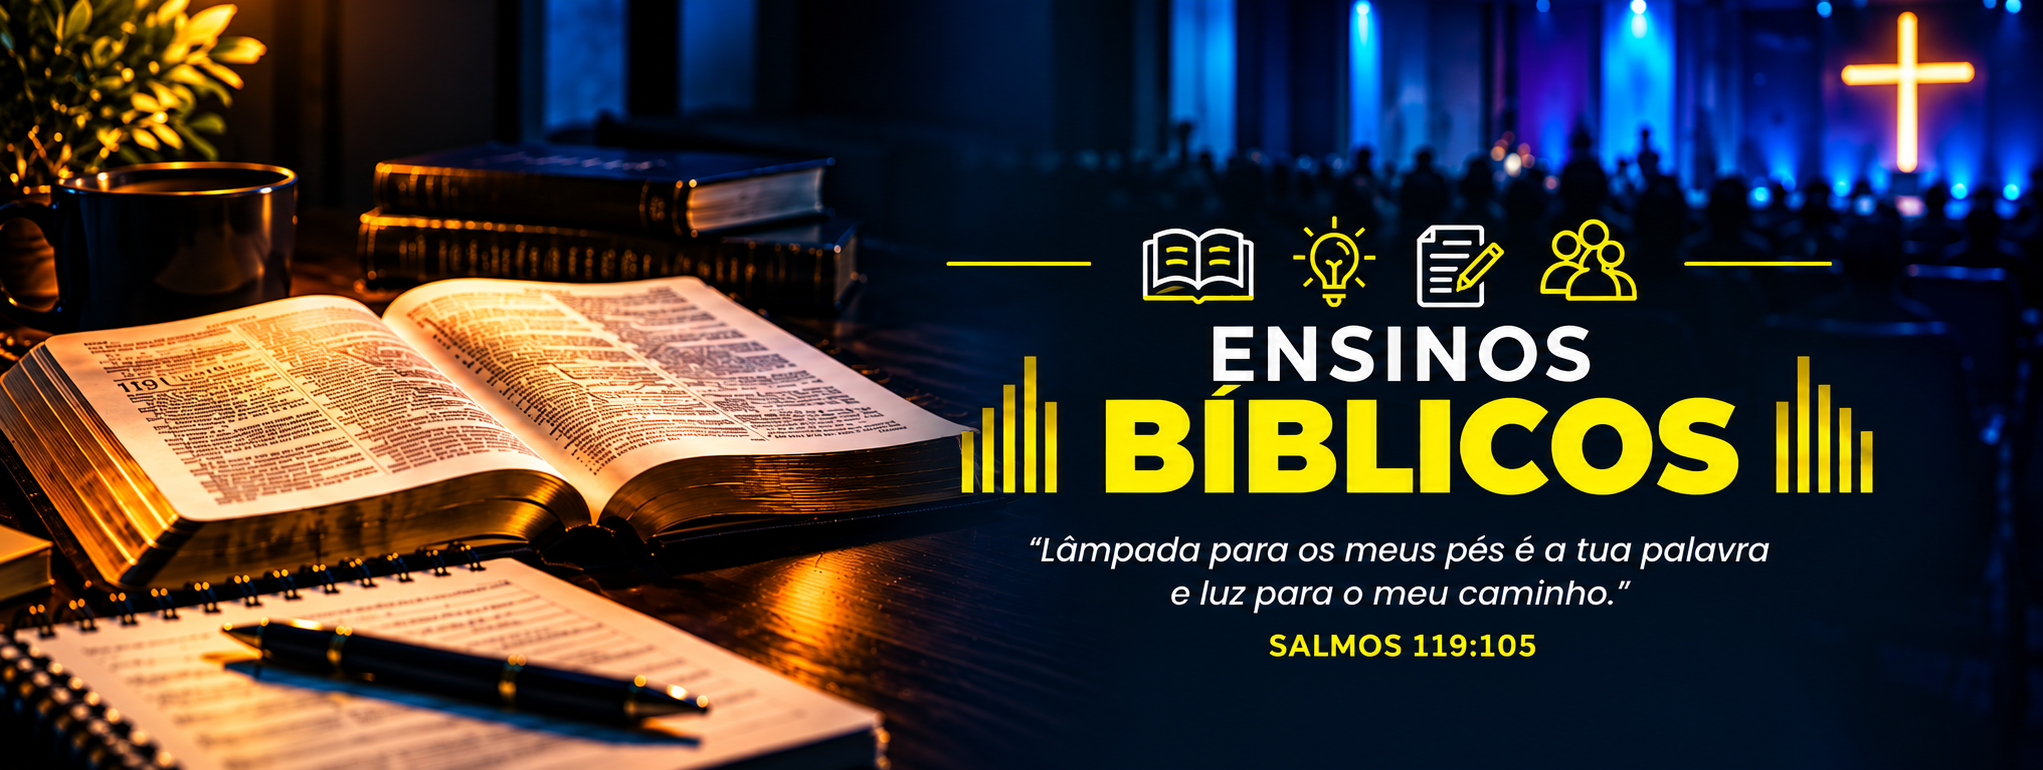
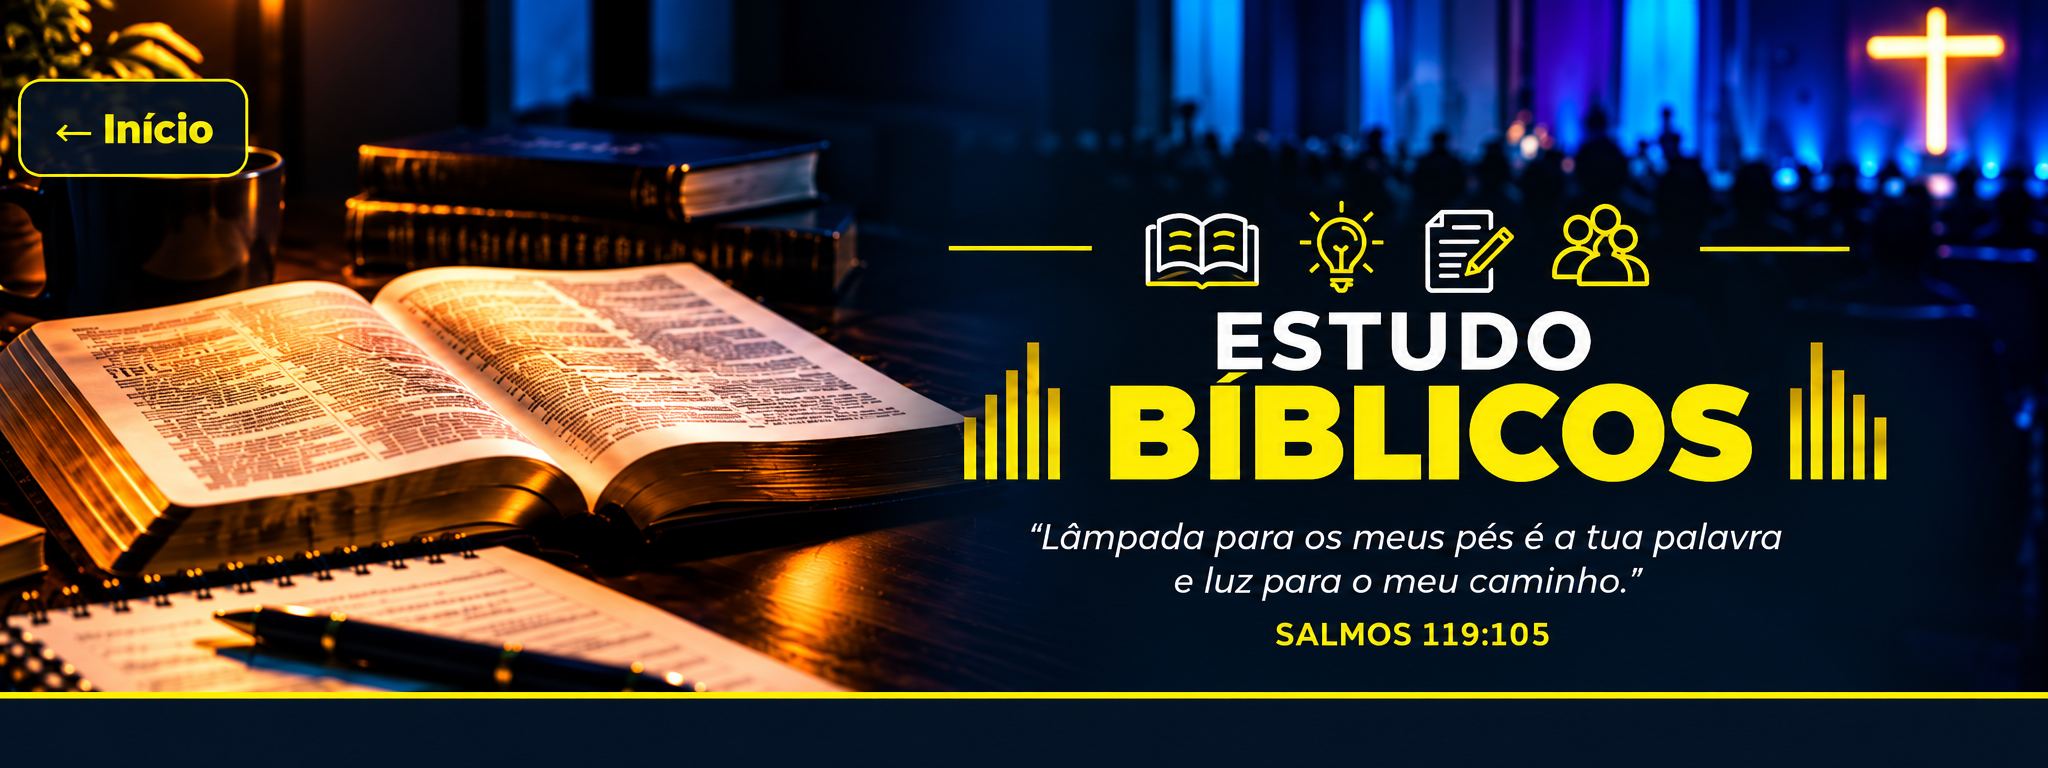
Add files via upload

diff --git a/estudos.html b/estudos.html
@@ -23,7 +23,13 @@ h1{font-size:34px;margin:0 0 8px}.lead{color:var(--m);font-size:17px;margin:0 0 
 .card h3{margin:0 0 8px}.card p{color:var(--m);line-height:1.5;flex:1}.card button{align-self:flex-start;margin-top:16px;background:var(--y);border:0;border-radius:10px;padding:10px 14px;font-weight:900}
 .mats{display:grid;grid-template-columns:repeat(3,1fr);gap:14px}.mat{padding:18px}.mat b{display:block;margin-bottom:6px}.mat span{color:var(--m);font-size:13px}
 .note{margin-top:26px;padding:15px 17px;background:#071A30;border:1px solid #ffffff12;border-radius:12px;color:var(--m);font-size:13px}
-@media(max-width:700px){.hero{height:230px}.wrap{width:calc(100% - 24px)}.meta,.grid,.mats{grid-template-columns:1fr}h1{font-size:28px}}
+/* Barra inferior padrão da Agenda C.A.R.A. */
+.bottom-nav{position:fixed;z-index:50;left:0;right:0;bottom:0;min-height:72px;padding:8px max(12px,env(safe-area-inset-right)) calc(8px + env(safe-area-inset-bottom)) max(12px,env(safe-area-inset-left));display:grid;grid-template-columns:repeat(3,1fr);align-items:center;background:rgba(5,24,29,.97);border:1px solid #203b32;border-bottom:0;border-radius:24px 24px 0 0;box-shadow:0 -5px 18px #0003}
+.bottom-nav a{min-width:0;display:flex;flex-direction:column;align-items:center;justify-content:center;gap:3px;color:#fff;text-decoration:none;font-size:11px;line-height:1.1;padding:3px}
+.bottom-nav .nav-icon{font-size:23px;line-height:1.05}
+.bottom-nav a:focus-visible{outline:2px solid var(--y);outline-offset:2px;border-radius:8px}
+body{padding-bottom:82px}
+@media(max-width:700px){.hero{height:230px}.wrap{width:calc(100% - 24px)}.meta,.grid,.mats{grid-template-columns:1fr}h1{font-size:28px}.bottom-nav{min-height:72px}}
 </style>
 </head>
 <body>
@@ -61,5 +67,10 @@ h1{font-size:34px;margin:0 0 8px}.lead{color:var(--m);font-size:17px;margin:0 0 
 </section>
 <div class="note">💡 <b>Integração C.A.R.A.:</b> a programação do estudo permanece na Base Central e na Agenda. Esta página será a área de conteúdo e materiais do Ensino.</div>
 </main>
+<nav class="bottom-nav" aria-label="Navegação principal">
+  <a href="./index.html" aria-label="Início"><span class="nav-icon" aria-hidden="true">🏠</span><span>Início</span></a>
+  <a href="./index.html#avisos" aria-label="Avisos"><span class="nav-icon" aria-hidden="true">🔔</span><span>Avisos</span></a>
+  <a href="./index.html#mais" aria-label="Mais"><span class="nav-icon" aria-hidden="true">☰</span><span>Mais</span></a>
+</nav>
 </body>
 </html>
